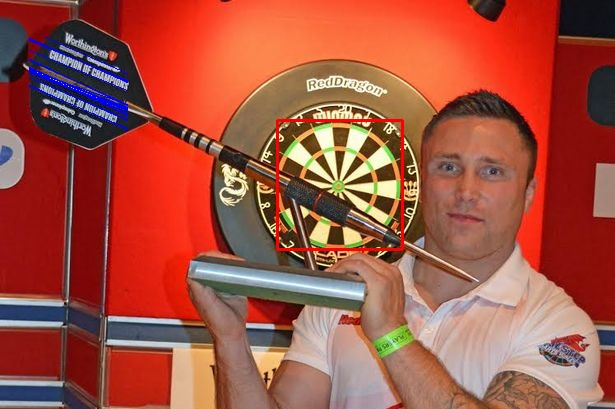
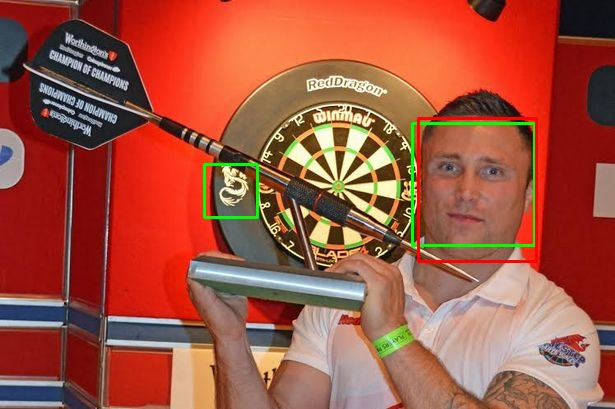
put in if statement to fix face detection
also changed name of matrix IOUs in eval.py to Overlaps to match reference in report

Changed region(s): [[0.3089, 0.2641, 0.8959, 0.6455], [0.0309, 0.088, 0.2163, 0.3227]]

diff --git a/framework.py b/framework.py
@@ -77,78 +77,83 @@ def detect(image, scaleFactor=1.2, minNeighbors=1.7):
     faces = np.asarray(face_cascade.detectMultiScale(image=gray, scaleFactor=scaleFactor,
     minNeighbors=minNeighbors, minSize=(50, 50), maxSize=(500,500)))
 
-    # highlights regions of interest and draws them onto the image.
-    ROIs = []
-    tmp_faces = []
-    final_faces = []
-    dropped = []
-    for i, f1 in enumerate(faces):
-        if  i not in dropped:
-            for j, f2 in enumerate(faces):
-                if i != j and j not in dropped:
-                    z = iou(f1, f2)
-                    z = iouThreshold(z, 0.1)
-                    if z == 1:
-                        _, _, w1, h1 = f1
-                        _, _, w2, h2 = f2
-                        if (w1*h1) <= (w2*h2):
-                            dropped.append(j)
-                        else:
-                            dropped.append(i)
+    if args.classifier == "dartboard":
+        # highlights regions of interest and draws them onto the image.
+        ROIs = []
+        tmp_faces = []
+        final_faces = []
+        dropped = []
+        for i, f1 in enumerate(faces):
+            if  i not in dropped:
+                for j, f2 in enumerate(faces):
+                    if i != j and j not in dropped:
+                        z = iou(f1, f2)
+                        z = iouThreshold(z, 0.1)
+                        if z == 1:
+                            _, _, w1, h1 = f1
+                            _, _, w2, h2 = f2
+                            if (w1*h1) <= (w2*h2):
+                                dropped.append(j)
+                            else:
+                                dropped.append(i)
 
-    tmp_faces = [face for i, face in enumerate(faces) if i not in dropped]
+        tmp_faces = [face for i, face in enumerate(faces) if i not in dropped]
 
-    for (x,y,w,h) in tmp_faces:
+        for (x,y,w,h) in tmp_faces:
 
-        roi = img[y:y+h, x:x+w]
-        edges = cv.Canny(image=roi, threshold1 = 100, threshold2 = 200 )
-        lines = hough_lines(image=edges)
-        intersections = []
-        if(len(lines) > 0):
-            for i, line in enumerate(lines):
-                x1, y1 = line[0]
-                x2, y2 = line[1]
-                p1, p2 = (x1+x, y1+y), (x2+x, y2+y)
-                cv.line(output, p1, p2, (255, 0, 0), 1)
-                for j, line2 in enumerate(lines):
-                    if i != j:
-                        p = line_intersection(line, line2)
-                        if p != None:
-                            intersections.append(p)
-        
-        centre = None
-        if(len(intersections)>0):
-            intersections = np.asarray(intersections)
-            meanx = np.mean(intersections[:, 0])
-            meany = np.mean(intersections[:, 1])
-            centre = (int(np.round(meanx)), int(np.round(meany)))
-            cv.circle(output,  (int(np.round(meanx))+x, int(np.round(meany))+y), 5, (255, 255, 0), 2)
+            roi = img[y:y+h, x:x+w]
+            edges = cv.Canny(image=roi, threshold1 = 100, threshold2 = 200 )
+            lines = hough_lines(image=edges)
+            intersections = []
+            if(len(lines) > 0):
+                for i, line in enumerate(lines):
+                    x1, y1 = line[0]
+                    x2, y2 = line[1]
+                    p1, p2 = (x1+x, y1+y), (x2+x, y2+y)
+                    cv.line(output, p1, p2, (255, 0, 0), 1)
+                    for j, line2 in enumerate(lines):
+                        if i != j:
+                            p = line_intersection(line, line2)
+                            if p != None:
+                                intersections.append(p)
 
-        edges = cv.Canny(image=roi, threshold1=100, threshold2=250)
-        cv.imwrite('edges.jpg', edges)
-        ellipses = hough_ellipse(edges, centre = centre)
-        if np.all(ellipses) != None:
-            for ellipse in ellipses:
-                x0, y0, a, b, alpha = ellipse
+            centre = None
+            if(len(intersections)>0):
+                intersections = np.asarray(intersections)
+                meanx = np.mean(intersections[:, 0])
+                meany = np.mean(intersections[:, 1])
+                centre = (int(np.round(meanx)), int(np.round(meany)))
+                cv.circle(output,  (int(np.round(meanx))+x, int(np.round(meany))+y), 5, (255, 255, 0), 2)
+
+            edges = cv.Canny(image=roi, threshold1=100, threshold2=250)
+            cv.imwrite('edges.jpg', edges)
+            ellipses = hough_ellipse(edges, centre = centre)
+            if np.all(ellipses) != None:
+                for ellipse in ellipses:
+                    x0, y0, a, b, alpha = ellipse
+                    x0 += x
+                    y0 += y
+                    cv.ellipse(output, (int(x0), int(y0)), (int(a), int(b)), alpha, 0, 360, (255,0,0), 2)
+            else:
+                ellipses = []
+
+            if len(ellipses) > 0 :
+                x0,  y0,  a, b,  alpha = ellipses[0]
                 x0 += x
                 y0 += y
-                cv.ellipse(output, (int(x0), int(y0)), (int(a), int(b)), alpha, 0, 360, (255,0,0), 2)
-        else:
-            ellipses = []
+                # if 4*a*b < 0.* w * h:
+                x = int(x0-a)
+                y=int(y0-b)
+                w=int(2*a)
+                h=int(2*b)
 
-        if len(ellipses) > 0 :
-            x0,  y0,  a, b,  alpha = ellipses[0]
-            x0 += x
-            y0 += y
-            # if 4*a*b < 0.* w * h:
-            x = int(x0-a)
-            y=int(y0-b)
-            w=int(2*a)
-            h=int(2*b) 
-
+                output = cv.rectangle(output,(x,y),(x+w,y+h),(0,255,0),2)
+                final_faces.append((x,y,w,h))
+    else:
+        final_faces = []
+        for (x,y,w,h) in faces:
             output = cv.rectangle(output,(x,y),(x+w,y+h),(0,255,0),2)
             final_faces.append((x,y,w,h))
-
 
     for(x,y,w,h) in groundTruths[image]:
         output = cv.rectangle(output,(x,y),(x+w,y+h),(0,0,255),2)

diff --git a/eval.py b/eval.py
@@ -7,7 +7,7 @@ def eval(targets, predicts):
 	# Counters for True Positives, False Positives and False Negatives
 	TP, FP, FN = 0, 0, 0
 
-	# If there are no targets or predicts: assign perfect precision, recall & f1
+	# If there are no targets and predicts: assign perfect precision, recall & f1
 	if(len(targets) == 0 and len(predicts) == 0):
 		return 0, 0, 0, 1, 1, 1
 
@@ -24,11 +24,11 @@ def eval(targets, predicts):
 	# If there are both targets and predicts
 	else:
 
-		# Calculate IOU between each target and predict
-		IOUs = [[iou(t, p) for p in predicts] for t in targets]
-		
-		# Apply threshold on IOUs to determine detections
-		detections = np.asarray([[iouThreshold(x) for x in iou] for iou in IOUs])
+		# Calculate overlaps between each target and predict
+		overlaps = [[iou(t, p) for p in predicts] for t in targets]
+
+		# Apply threshold on overlaps to determine detections
+		detections = np.asarray([[iouThreshold(x) for x in iou] for iou in overlaps])
 
 		# for each row that has no 1s in the thresholded iou matrix, this reflect an object never detected (FN)
 		for row in detections:
